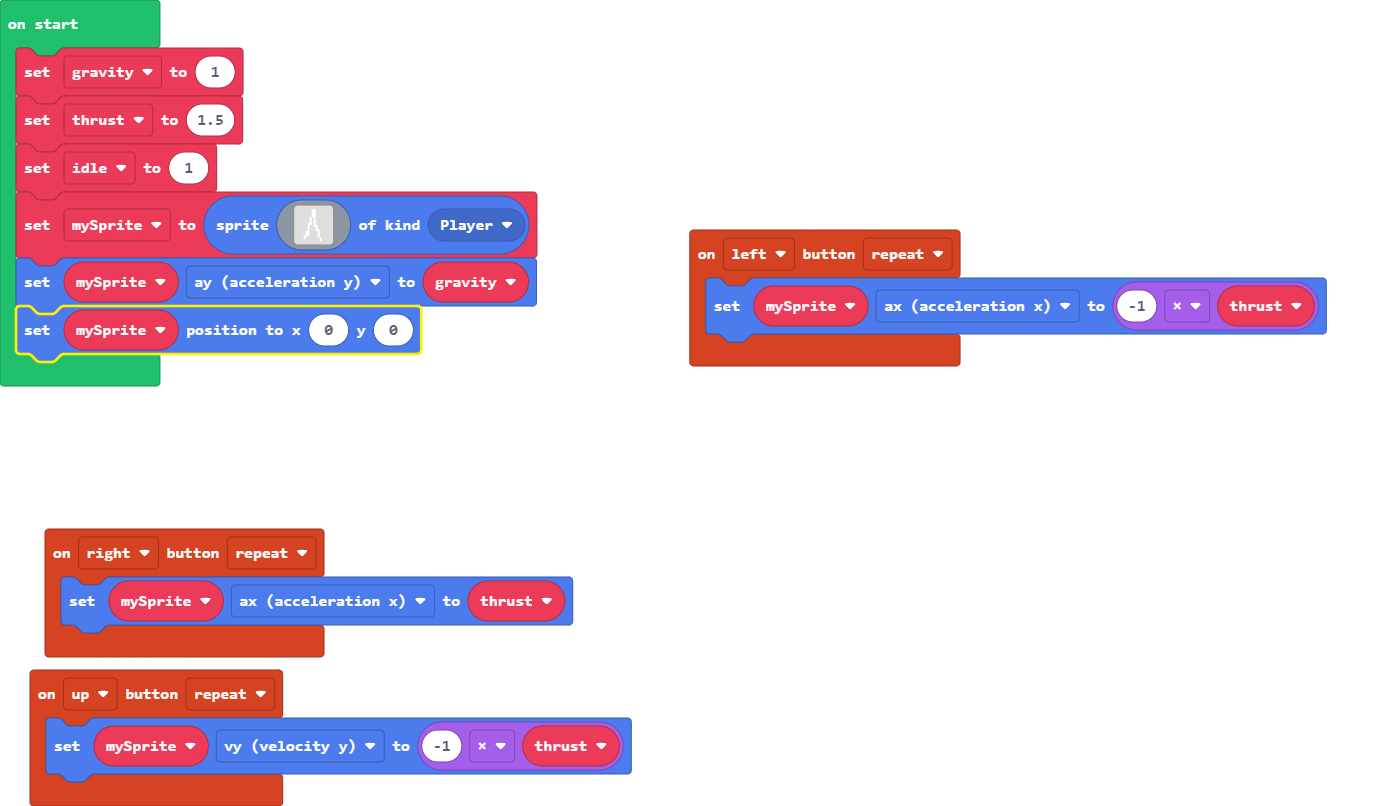
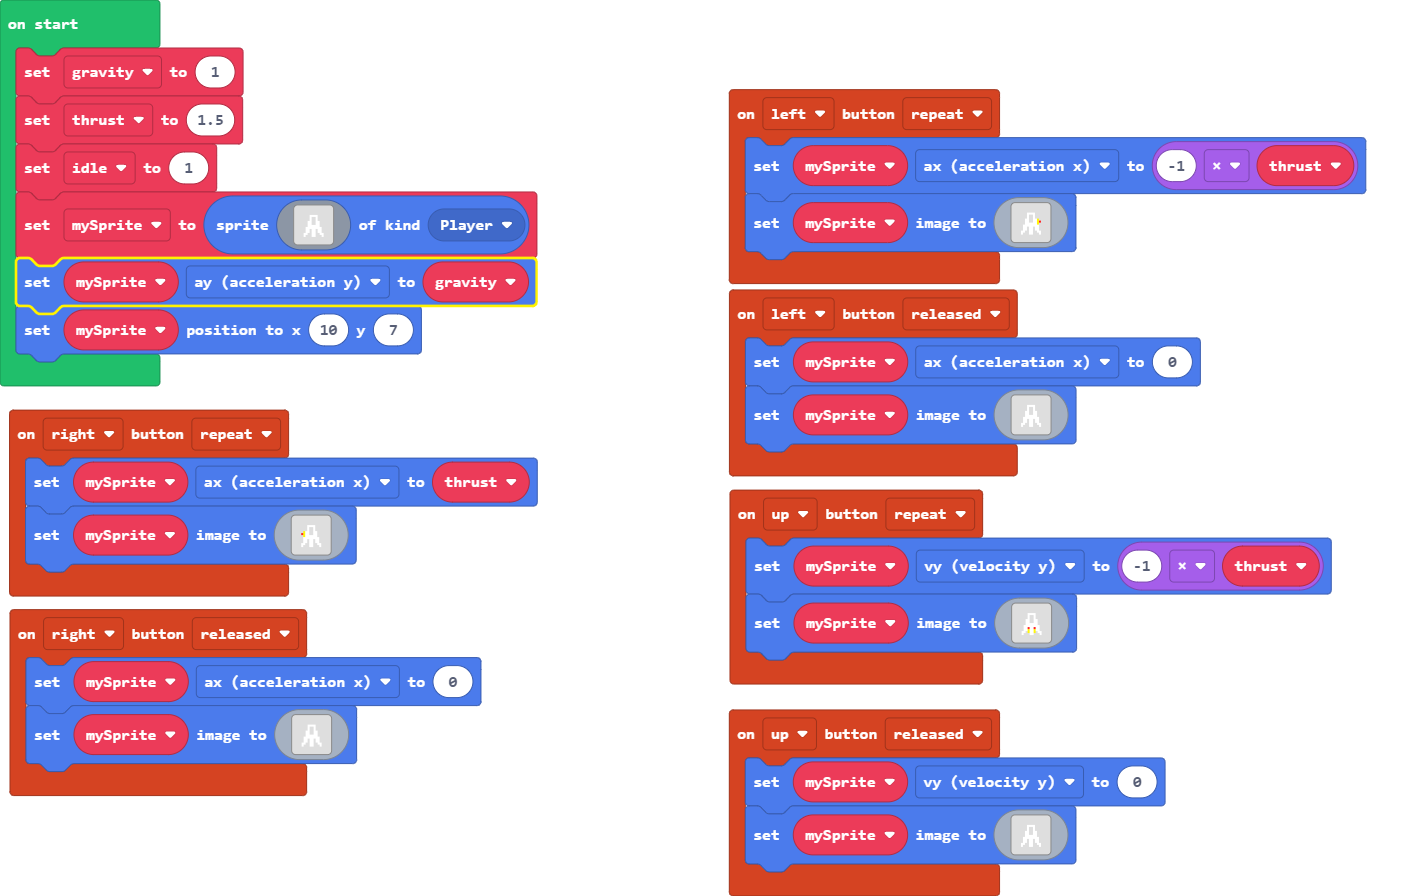
refined controls

diff --git a/main.ts b/main.ts
@@ -1,11 +1,128 @@
 controller.up.onEvent(ControllerButtonEvent.Repeated, function () {
     mySprite.vy = -1 * thrust
+    mySprite.setImage(img`
+        . . . . . . . . . . . . . . . . 
+        . . . . . . . . . . . . . . . . 
+        . . . . . . . . . . . . . . . . 
+        . . . . . . 1 1 1 1 . . . . . . 
+        . . . . . . 1 . . 1 . . . . . . 
+        . . . . . . 1 . . 1 . . . . . . 
+        . . . . . 1 1 . . 1 1 . . . . . 
+        . . . . . 1 1 . . 1 1 . . . . . 
+        . . . . . 1 1 1 1 1 1 . . . . . 
+        . . . . 1 1 1 1 1 1 1 1 . . . . 
+        . . . . 1 1 2 1 1 2 1 1 . . . . 
+        . . . . 1 1 5 1 1 5 1 1 . . . . 
+        . . . 1 1 . 5 1 1 5 . 1 1 . . . 
+        . . . 1 . . . 1 1 . . . 1 . . . 
+        . . . . . . . . . . . . . . . . 
+        . . . . . . . . . . . . . . . . 
+        `)
 })
 controller.right.onEvent(ControllerButtonEvent.Repeated, function () {
     mySprite.ax = thrust
+    mySprite.setImage(img`
+        . . . . . . . . . . . . . . . . 
+        . . . . . . . . . . . . . . . . 
+        . . . . . . . . . . . . . . . . 
+        . . . . . . 1 1 1 1 . . . . . . 
+        . . . . . . 1 . . 1 . . . . . . 
+        . . . . . . 1 . . 1 . . . . . . 
+        . . . . 5 1 1 . . 1 1 . . . . . 
+        . . . 2 5 1 1 . . 1 1 . . . . . 
+        . . . . 5 1 1 1 1 1 1 . . . . . 
+        . . . . 1 1 1 1 1 1 1 1 . . . . 
+        . . . . 1 1 . 1 1 . 1 1 . . . . 
+        . . . . 1 1 . 1 1 . 1 1 . . . . 
+        . . . 1 1 . . 1 1 . . 1 1 . . . 
+        . . . 1 . . . 1 1 . . . 1 . . . 
+        . . . . . . . . . . . . . . . . 
+        . . . . . . . . . . . . . . . . 
+        `)
+})
+controller.right.onEvent(ControllerButtonEvent.Released, function () {
+    mySprite.ax = 0
+    mySprite.setImage(img`
+        . . . . . . . . . . . . . . . . 
+        . . . . . . . . . . . . . . . . 
+        . . . . . . . . . . . . . . . . 
+        . . . . . . 1 1 1 1 . . . . . . 
+        . . . . . . 1 . . 1 . . . . . . 
+        . . . . . . 1 . . 1 . . . . . . 
+        . . . . . 1 1 . . 1 1 . . . . . 
+        . . . . . 1 1 . . 1 1 . . . . . 
+        . . . . . 1 1 1 1 1 1 . . . . . 
+        . . . . 1 1 1 1 1 1 1 1 . . . . 
+        . . . . 1 1 . 1 1 . 1 1 . . . . 
+        . . . . 1 1 . 1 1 . 1 1 . . . . 
+        . . . 1 1 . . 1 1 . . 1 1 . . . 
+        . . . 1 . . . 1 1 . . . 1 . . . 
+        . . . . . . . . . . . . . . . . 
+        . . . . . . . . . . . . . . . . 
+        `)
+})
+controller.left.onEvent(ControllerButtonEvent.Released, function () {
+    mySprite.ax = 0
+    mySprite.setImage(img`
+        . . . . . . . . . . . . . . . . 
+        . . . . . . . . . . . . . . . . 
+        . . . . . . . . . . . . . . . . 
+        . . . . . . 1 1 1 1 . . . . . . 
+        . . . . . . 1 . . 1 . . . . . . 
+        . . . . . . 1 . . 1 . . . . . . 
+        . . . . . 1 1 . . 1 1 . . . . . 
+        . . . . . 1 1 . . 1 1 . . . . . 
+        . . . . . 1 1 1 1 1 1 . . . . . 
+        . . . . 1 1 1 1 1 1 1 1 . . . . 
+        . . . . 1 1 . 1 1 . 1 1 . . . . 
+        . . . . 1 1 . 1 1 . 1 1 . . . . 
+        . . . 1 1 . . 1 1 . . 1 1 . . . 
+        . . . 1 . . . 1 1 . . . 1 . . . 
+        . . . . . . . . . . . . . . . . 
+        . . . . . . . . . . . . . . . . 
+        `)
+})
+controller.up.onEvent(ControllerButtonEvent.Released, function () {
+    mySprite.vy = 0
+    mySprite.setImage(img`
+        . . . . . . . . . . . . . . . . 
+        . . . . . . . . . . . . . . . . 
+        . . . . . . . . . . . . . . . . 
+        . . . . . . 1 1 1 1 . . . . . . 
+        . . . . . . 1 . . 1 . . . . . . 
+        . . . . . . 1 . . 1 . . . . . . 
+        . . . . . 1 1 . . 1 1 . . . . . 
+        . . . . . 1 1 . . 1 1 . . . . . 
+        . . . . . 1 1 1 1 1 1 . . . . . 
+        . . . . 1 1 1 1 1 1 1 1 . . . . 
+        . . . . 1 1 . 1 1 . 1 1 . . . . 
+        . . . . 1 1 . 1 1 . 1 1 . . . . 
+        . . . 1 1 . . 1 1 . . 1 1 . . . 
+        . . . 1 . . . 1 1 . . . 1 . . . 
+        . . . . . . . . . . . . . . . . 
+        . . . . . . . . . . . . . . . . 
+        `)
 })
 controller.left.onEvent(ControllerButtonEvent.Repeated, function () {
     mySprite.ax = -1 * thrust
+    mySprite.setImage(img`
+        . . . . . . . . . . . . . . . . 
+        . . . . . . . . . . . . . . . . 
+        . . . . . . . . . . . . . . . . 
+        . . . . . . 1 1 1 1 . . . . . . 
+        . . . . . . 1 . . 1 . . . . . . 
+        . . . . . . 1 . . 1 . . . . . . 
+        . . . . . 1 1 . . 1 1 5 . . . . 
+        . . . . . 1 1 . . 1 1 5 2 . . . 
+        . . . . . 1 1 1 1 1 1 5 . . . . 
+        . . . . 1 1 1 1 1 1 1 1 . . . . 
+        . . . . 1 1 . 1 1 . 1 1 . . . . 
+        . . . . 1 1 . 1 1 . 1 1 . . . . 
+        . . . 1 1 . . 1 1 . . 1 1 . . . 
+        . . . 1 . . . 1 1 . . . 1 . . . 
+        . . . . . . . . . . . . . . . . 
+        . . . . . . . . . . . . . . . . 
+        `)
 })
 let mySprite: Sprite = null
 let thrust = 0
@@ -13,22 +130,22 @@ let gravity = 1
 thrust = 1.5
 let idle = 1
 mySprite = sprites.create(img`
-    . . . . . . . 1 1 . . . . . . . 
-    . . . . . . . 1 1 . . . . . . . 
-    . . . . . . . 1 1 . . . . . . . 
-    . . . . . . . 1 1 . . . . . . . 
-    . . . . . . 1 . 1 . . . . . . . 
-    . . . . . . 1 . 1 . . . . . . . 
-    . . . . . . 1 . 1 . . . . . . . 
-    . . . . . 1 1 . 1 . . . . . . . 
-    . . . . . 1 . . 1 1 . . . . . . 
-    . . . . . 1 . . . 1 . . . . . . 
-    . . . . . 1 . . . 1 1 . . . . . 
-    . . . . 1 1 . . . . 1 . . . . . 
-    . . . . 1 1 . . . . 1 . . . . . 
-    . . . 1 1 . . . . . 1 . . . . . 
-    . . . 1 . . . . . . . 1 . . . . 
-    . . . . . . . . . . . 1 . . . . 
+    . . . . . . . . . . . . . . . . 
+    . . . . . . . . . . . . . . . . 
+    . . . . . . . . . . . . . . . . 
+    . . . . . . 1 1 1 1 . . . . . . 
+    . . . . . . 1 . . 1 . . . . . . 
+    . . . . . . 1 . . 1 . . . . . . 
+    . . . . . 1 1 . . 1 1 . . . . . 
+    . . . . . 1 1 . . 1 1 . . . . . 
+    . . . . . 1 1 1 1 1 1 . . . . . 
+    . . . . 1 1 1 1 1 1 1 1 . . . . 
+    . . . . 1 1 . 1 1 . 1 1 . . . . 
+    . . . . 1 1 . 1 1 . 1 1 . . . . 
+    . . . 1 1 . . 1 1 . . 1 1 . . . 
+    . . . 1 . . . 1 1 . . . 1 . . . 
+    . . . . . . . . . . . . . . . . 
+    . . . . . . . . . . . . . . . . 
     `, SpriteKind.Player)
 mySprite.ay = gravity
-mySprite.setPosition(0, 0)
+mySprite.setPosition(10, 7)
